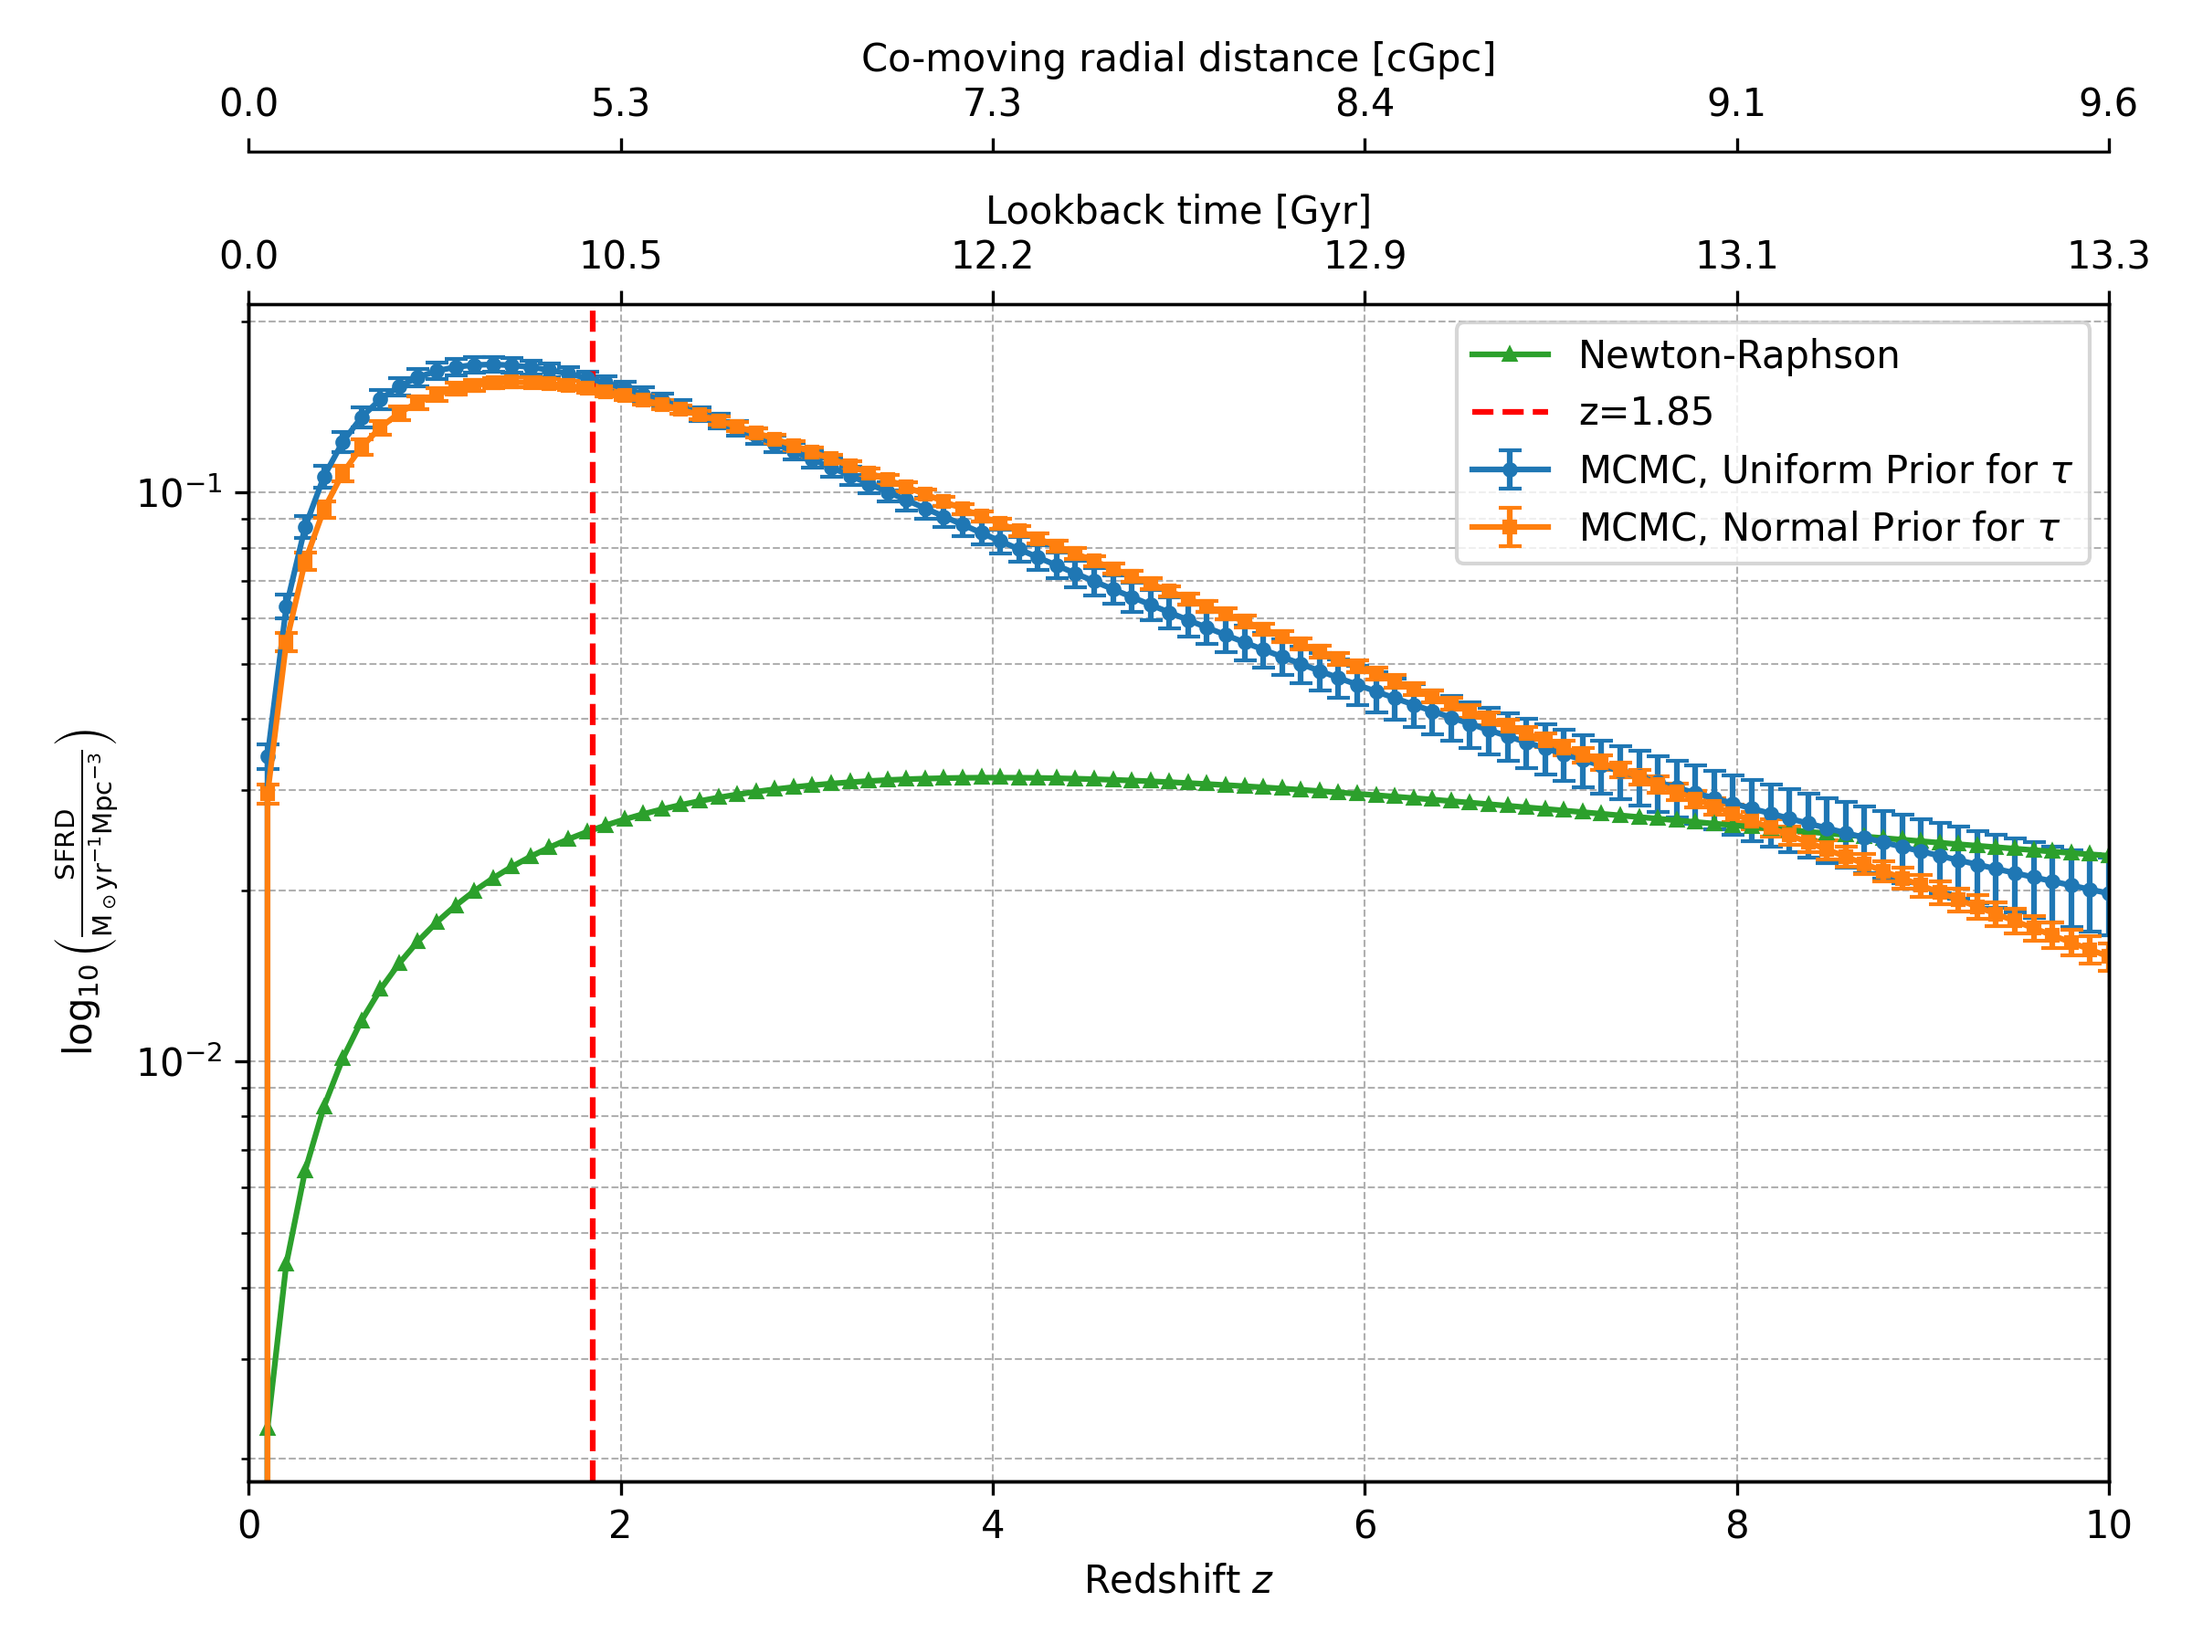
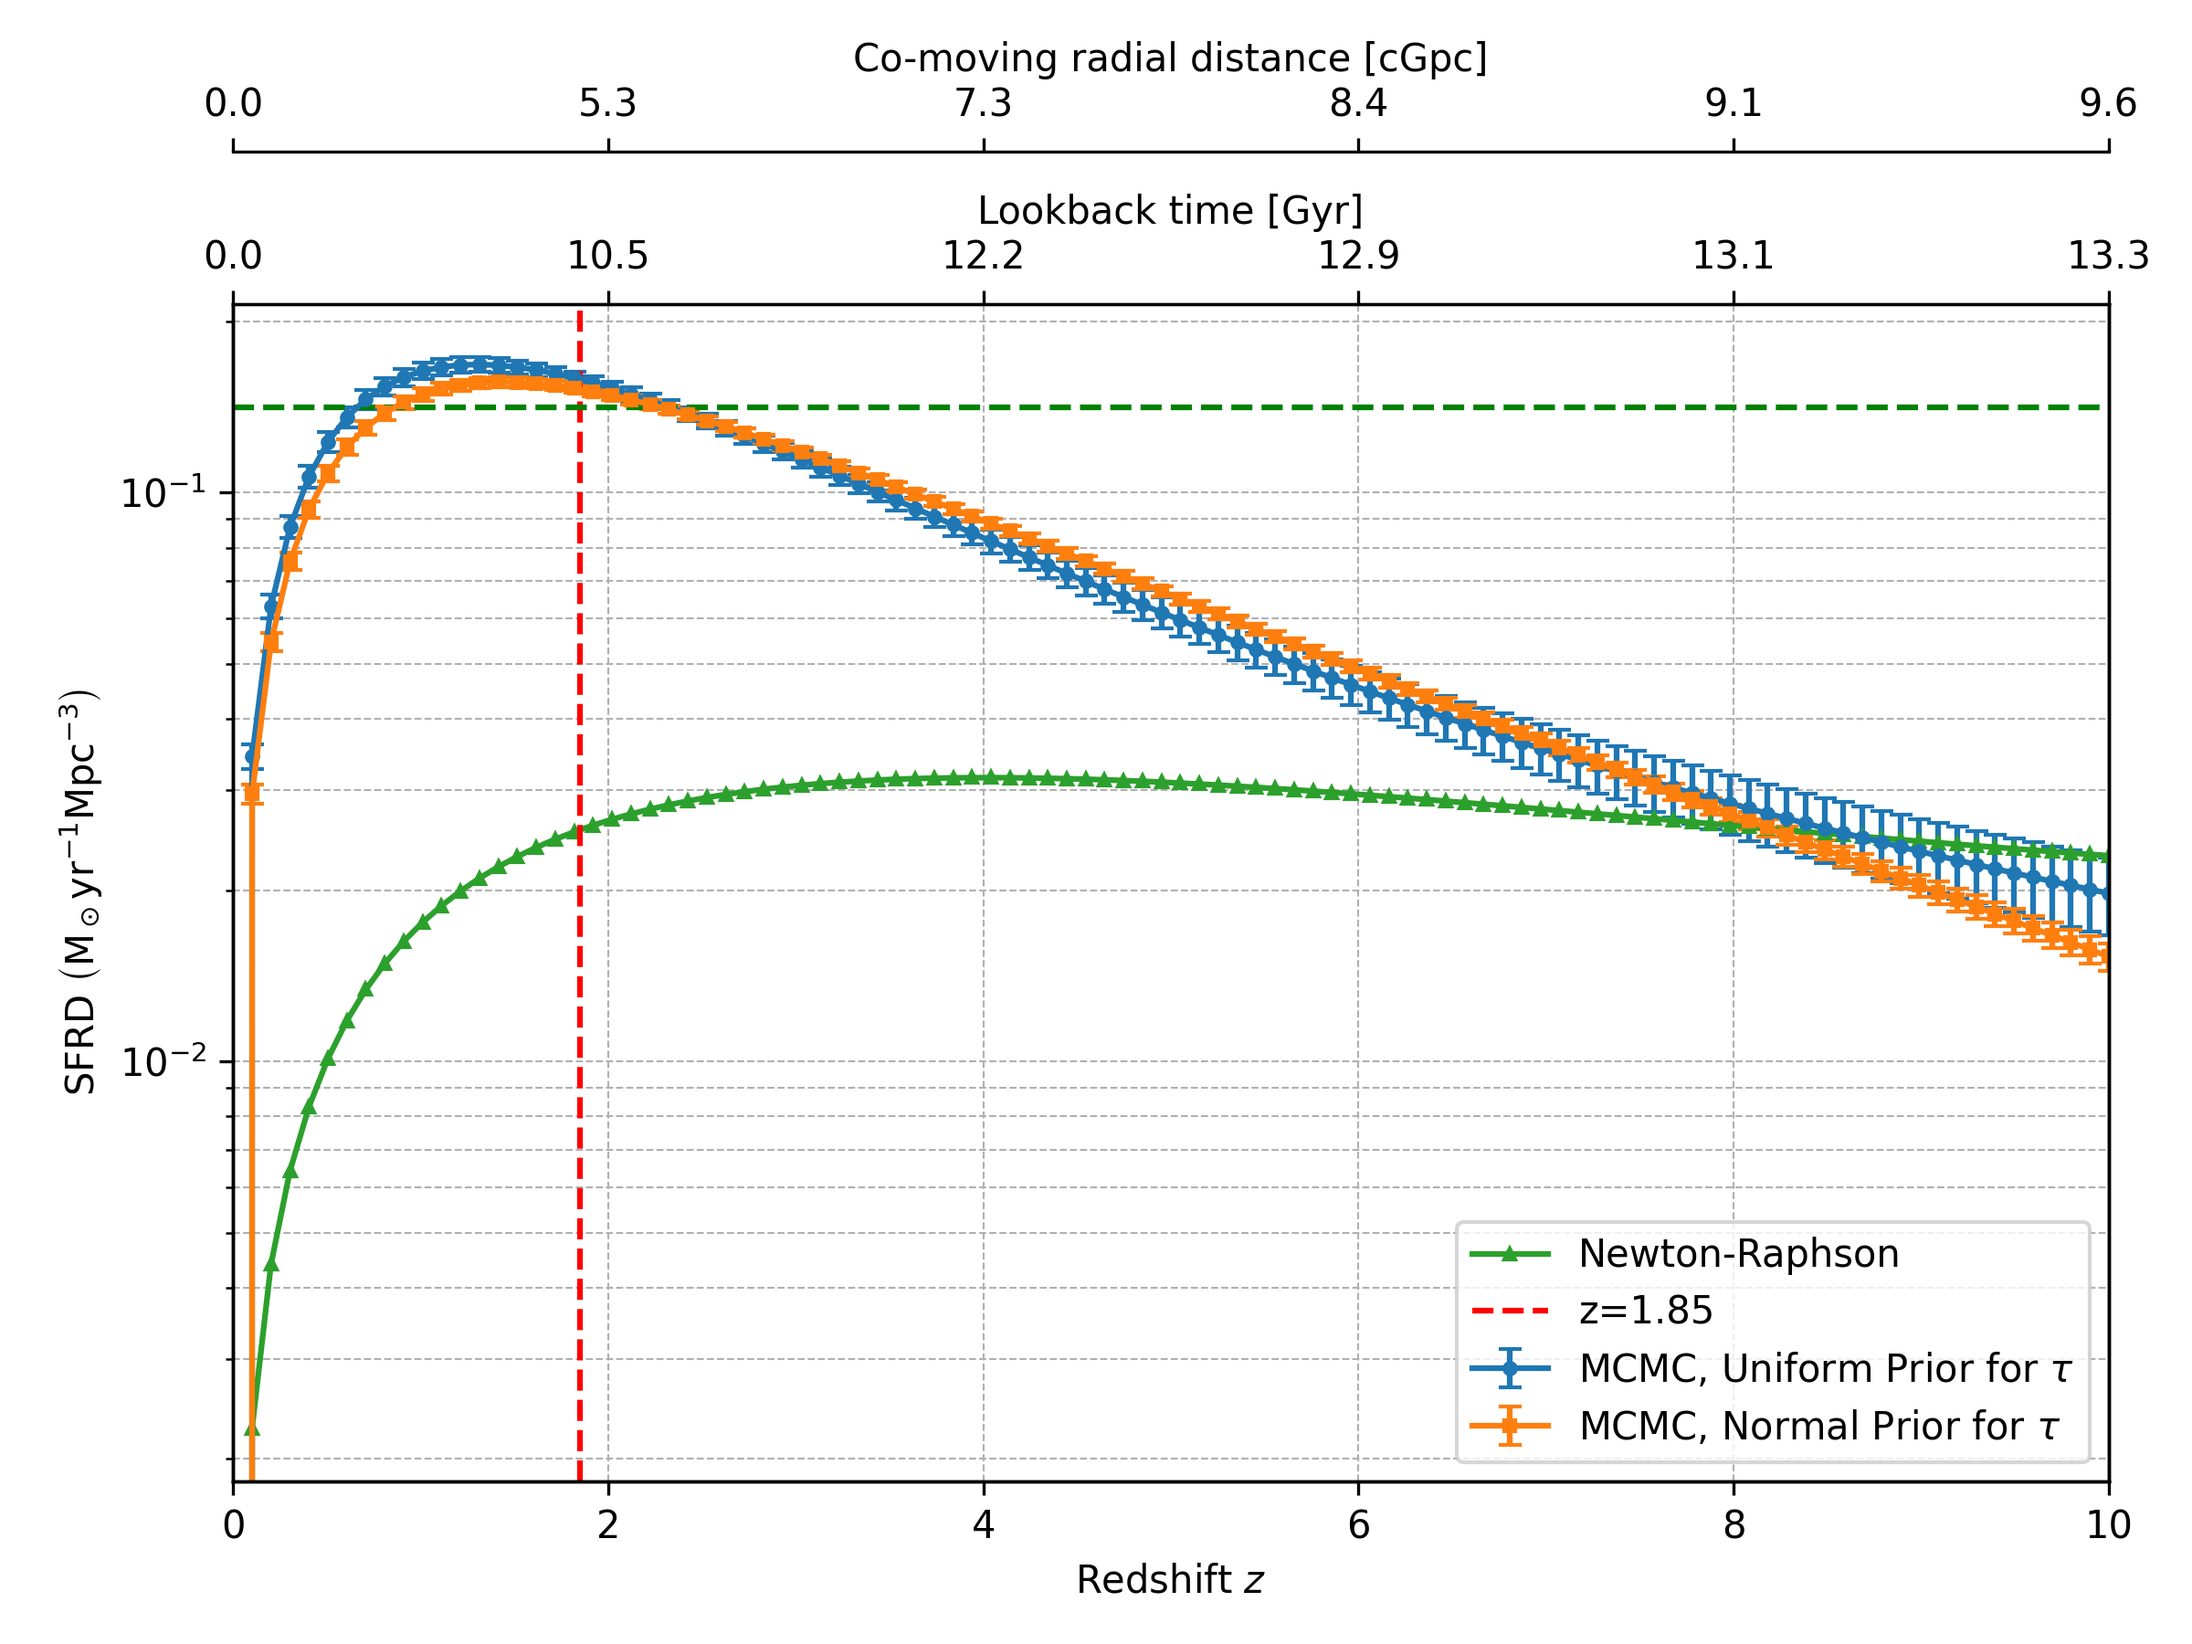
SFRD lilly-Madau

diff --git a/method_comparison/cmd_MS_plots.py b/method_comparison/cmd_MS_plots.py
@@ -1,0 +1,75 @@
+import pandas as pd
+import matplotlib.pyplot as plt
+import seaborn as sns
+import os
+
+# Set working directory to the script location
+script_dir = os.path.dirname(os.path.abspath(__file__))
+os.chdir(script_dir)
+
+# Create directories for saving plots
+plot_dirs = ["gr_plots", "bu_plots", "bv_plots", "ms_plots"]
+for d in plot_dirs:
+    os.makedirs(d, exist_ok=True)
+
+# Load dataset
+df = pd.read_csv("joined_output_HECATE.csv")
+
+# Define function to create and save CMD plots
+def plot_cmd(df, x_col, y_col, xlabel, ylabel, title, filename, folder, hue=None, cmap=False, invert_y=True, clabel = "Morphological Type"):
+    plt.figure(figsize=(8, 6), dpi=350)
+    if hue:
+        if cmap:
+            scatter = plt.scatter(df[x_col], df[y_col], c=df[hue], cmap="viridis", alpha=0.7, marker=".")
+            plt.colorbar(scatter, label=clabel)
+        else:
+            sns.scatterplot(data=df, x=x_col, y=y_col, hue=hue, edgecolor="k", alpha=0.7, marker=".")
+    else:
+        sns.scatterplot(data=df, x=x_col, y=y_col, edgecolor="k", alpha=0.7, marker=".")
+    if invert_y:
+        plt.gca().invert_yaxis()
+    plt.xlabel(xlabel)
+    plt.ylabel(ylabel)
+    plt.title(title)
+    plt.savefig(os.path.join(folder, filename), dpi = 350)
+    plt.close()
+
+# Define improved labels for CMD plots
+xlabel_gr = r"$g - r$ (mag)"
+ylabel_mr = r"$M_R$ (Absolute Magnitude in r-band)"
+xlabel_bu = r"$B - U$ (mag)"
+ylabel_mb = r"$M_B$ (Absolute Magnitude in B-band)"
+xlabel_bv = r"$B - V$ (mag)"
+ylabel_mb = r"$M_B$ (Absolute Magnitude in B-band)"
+xlabel_ms = r"$\log M_{\mathrm{total}}$ ($M_\odot$)"
+ylabel_ms = r"$\log \mathrm{SFR}_{\mathrm{total}}$ ($M_\odot$ yr$^{-1}$)"
+
+# Categorize tau_up and tau_np for color coding
+df["tau_up_category"] = pd.cut(df["tau_up"], bins=[-float("inf"), 5, 10, float("inf")], labels=[r"$\tau_{up} < 5$ Gyr", r"$5 \leq \tau_{up} \leq 10$ Gyr", r"$\tau_{up} > 10$ Gyr"])
+df["tau_np_category"] = pd.cut(df["tau_np"], bins=[-float("inf"), 5, 10, float("inf")], labels=[r"$\tau_{np} < 5$ Gyr", r"$5 \leq \tau_{np} \leq 10$ Gyr", r"$\tau_{np} > 10$ Gyr"])
+
+# Generate and save CMD and main sequence plots
+plot_cmd(df, "gr", "MR", xlabel_gr, ylabel_mr, "CMD Plot (All Galaxies, g - r)", "cmd_all_gr.png", "gr_plots")
+plot_cmd(df, "gr", "MR", xlabel_gr, ylabel_mr, "CMD Plot Colored by $\\tau_{up}$ (Uniform Prior, $\\tau$ in Gyr)", "cmd_tau_up_gr.png", "gr_plots", "tau_up_category")
+plot_cmd(df, "gr", "MR", xlabel_gr, ylabel_mr, "CMD Plot Colored by $\\tau_{np}$ (Normal Prior, $\\tau$ in Gyr)", "cmd_tau_np_gr.png", "gr_plots", "tau_np_category")
+plot_cmd(df, "gr", "MR", xlabel_gr, ylabel_mr, "CMD Plot Colored by Morphological Type", "cmd_morph_gr.png", "gr_plots", "merge_T", cmap=True)
+
+plot_cmd(df, "bu", "MB", xlabel_bu, ylabel_mb, "CMD Plot (All Galaxies, B - U)", "cmd_all_bu.png", "bu_plots")
+plot_cmd(df, "bu", "MB", xlabel_bu, ylabel_mb, "CMD Plot Colored by $\\tau_{up}$ (Uniform Prior, $\\tau$ in Gyr)", "cmd_tau_up_bu.png", "bu_plots", "tau_up_category")
+plot_cmd(df, "bu", "MB", xlabel_bu, ylabel_mb, "CMD Plot Colored by $\\tau_{np}$ (Normal Prior, $\\tau$ in Gyr)", "cmd_tau_np_bu.png", "bu_plots", "tau_np_category")
+plot_cmd(df, "bu", "MB", xlabel_bu, ylabel_mb, "CMD Plot Colored by Morphological Type", "cmd_morph_bu.png", "bu_plots", "merge_T", cmap=True)
+
+plot_cmd(df, "bv", "MB", xlabel_bv, ylabel_mb, "CMD Plot (All Galaxies, B - V)", "cmd_all_bv.png", "bv_plots")
+plot_cmd(df, "bv", "MB", xlabel_bv, ylabel_mb, "CMD Plot Colored by $\\tau_{up}$ (Uniform Prior, $\\tau$ in Gyr)", "cmd_tau_up_bv.png", "bv_plots", "tau_up_category")
+plot_cmd(df, "bv", "MB", xlabel_bv, ylabel_mb, "CMD Plot Colored by $\\tau_{np}$ (Normal Prior, $\\tau$ in Gyr)", "cmd_tau_np_bv.png", "bv_plots", "tau_np_category")
+plot_cmd(df, "bv", "MB", xlabel_bv, ylabel_mb, "CMD Plot Colored by Morphological Type", "cmd_morph_bv.png", "bv_plots", "merge_T", cmap=True)
+
+plot_cmd(df, "logM_total", "logSFR_total", xlabel_ms, ylabel_ms, "Main Sequence Plot", "ms_plot.png", "ms_plots", invert_y=False)
+plot_cmd(df, "logM_total", "logSFR_total", xlabel_ms, ylabel_ms, "Main Sequence Colored by $\\tau_{up}$ (Uniform Prior, $\\tau$ in Gyr)", "ms_tau_up.png", "ms_plots", "tau_up_category", invert_y=False)
+plot_cmd(df, "logM_total", "logSFR_total", xlabel_ms, ylabel_ms, "Main Sequence Colored by $\\tau_{np}$ (Normal Prior, $\\tau$ in Gyr)", "ms_tau_np.png", "ms_plots", "tau_np_category", invert_y=False)
+plot_cmd(df, "logM_total", "logSFR_total", xlabel_ms, ylabel_ms, "Main Sequence Colored by Morphological Type", "ms_morph.png", "ms_plots", "merge_T", cmap=True, invert_y=False)
+plot_cmd(df, "logM_total", "logSFR_total", xlabel_ms, ylabel_ms, "Main Sequence Colored by Specific SFR", "ms_sSFR.png", "ms_plots", "logsSFR", cmap=True, invert_y=False, clabel=r"log(sSFR yr)")
+plot_cmd(df, "logM_total", "logSFR_total", xlabel_ms, ylabel_ms, "Main Sequence Colored by $t_{sf, np}$", "ms_tsf_np.png", "ms_plots", "t_sf_np", cmap=True, invert_y=False,clabel=r"$t_{sf}$ (Gyr)")
+plot_cmd(df, "logM_total", "logSFR_total", xlabel_ms, ylabel_ms, "Main Sequence Colored by $t_{sf, up}$", "ms_tsf_up.png", "ms_plots", "t_sf_up", cmap=True, invert_y=False,clabel=r"$t_{sf}$ (Gyr)")
+
+print("Plots saved in respective folders.")

diff --git a/method_comparison/sfrd.py b/method_comparison/sfrd.py
@@ -12,18 +12,18 @@ data_norm = pd.read_csv('r_mcmc_normal/joined_data.csv')
 data_nr = pd.read_csv('NR/filled_with_NR.csv')
 
 # Define the A and tau values for each dataset
-A_values_uni = data_uni['A'].values
-tau_values_uni = (data_uni['tau']*u.Gyr.to(u.yr)).values
-sigma_A_values_uni = data_uni['A_sigma'].values
-sigma_tau_values_uni = (data_uni['tau_sigma']*u.Gyr.to(u.yr)).values
+A_values_uni = data_uni['A_up'].values
+tau_values_uni = (data_uni['tau_up']*u.Gyr.to(u.yr)).values
+sigma_A_values_uni = data_uni['A_sigma_up'].values
+sigma_tau_values_uni = (data_uni['tau_sigma_up']*u.Gyr.to(u.yr)).values
 
-A_values_norm = data_norm['A'].values
-tau_values_norm = (data_norm['tau']*u.Gyr.to(u.yr)).values
-sigma_A_values_norm = data_norm['A_sigma'].values
-sigma_tau_values_norm = (data_norm['tau_sigma']*u.Gyr.to(u.yr)).values
+A_values_norm = data_norm['A_np'].values
+tau_values_norm = (data_norm['tau_np']*u.Gyr.to(u.yr)).values
+sigma_A_values_norm = data_norm['A_sigma_np'].values
+sigma_tau_values_norm = (data_norm['tau_sigma_np']*u.Gyr.to(u.yr)).values
 
 A_values_nr = data_nr['A_n'].values
-tau_values_nr = (data_nr['tau']*u.Gyr.to(u.yr)).values
+tau_values_nr = (data_nr['tau_n']*u.Gyr.to(u.yr)).values
 
 # Volume factor
 V = (4/3 * np.pi * 11**3)
@@ -135,7 +135,7 @@ ax3.set_xticklabels([f"{d:.1f}" for d in co_moving_distances])
 
 # Y-axis
 ax1.set_yscale('log')
-ax1.set_ylabel(r"$\log_{10}\left(\frac{\text{SFRD}}{\text{M}_\odot \text{yr}^{-1} \text{Mpc}^{-3}}\right)$")
+ax1.set_ylabel(r"$\text{SFRD}\ \left(\text{M}_\odot \text{yr}^{-1} \text{Mpc}^{-3}\right)$")
 ax1.legend()
 ax1.grid(True, which='both', linestyle='--', linewidth=0.5)
 
@@ -143,6 +143,9 @@ ax1.grid(True, which='both', linestyle='--', linewidth=0.5)
 ax1.invert_xaxis()
 ax2.invert_xaxis()
 ax3.invert_xaxis()
+
+# add line at y = 10^-0.9
+ax1.axhline(y=10**(-0.9+0.05), color='g', linestyle='--', label='y=10^-0.85')
 
 # Save
 plt.tight_layout()
